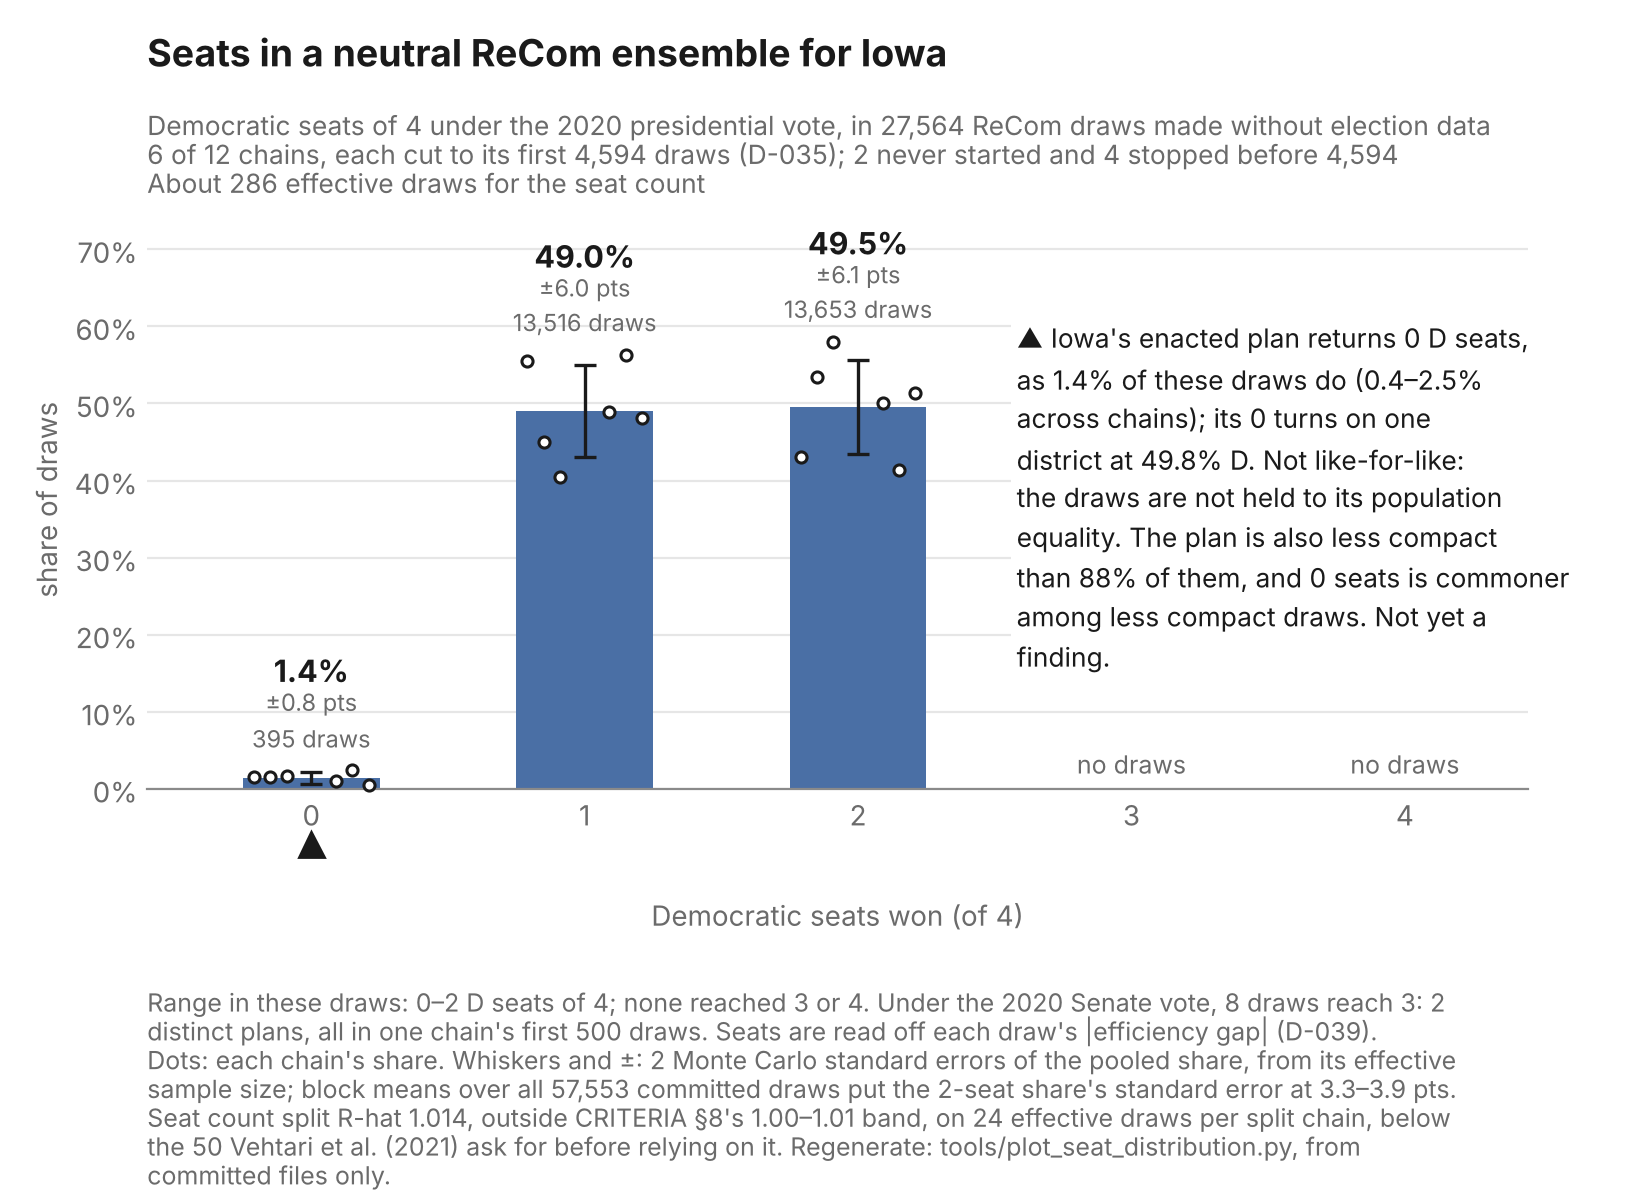
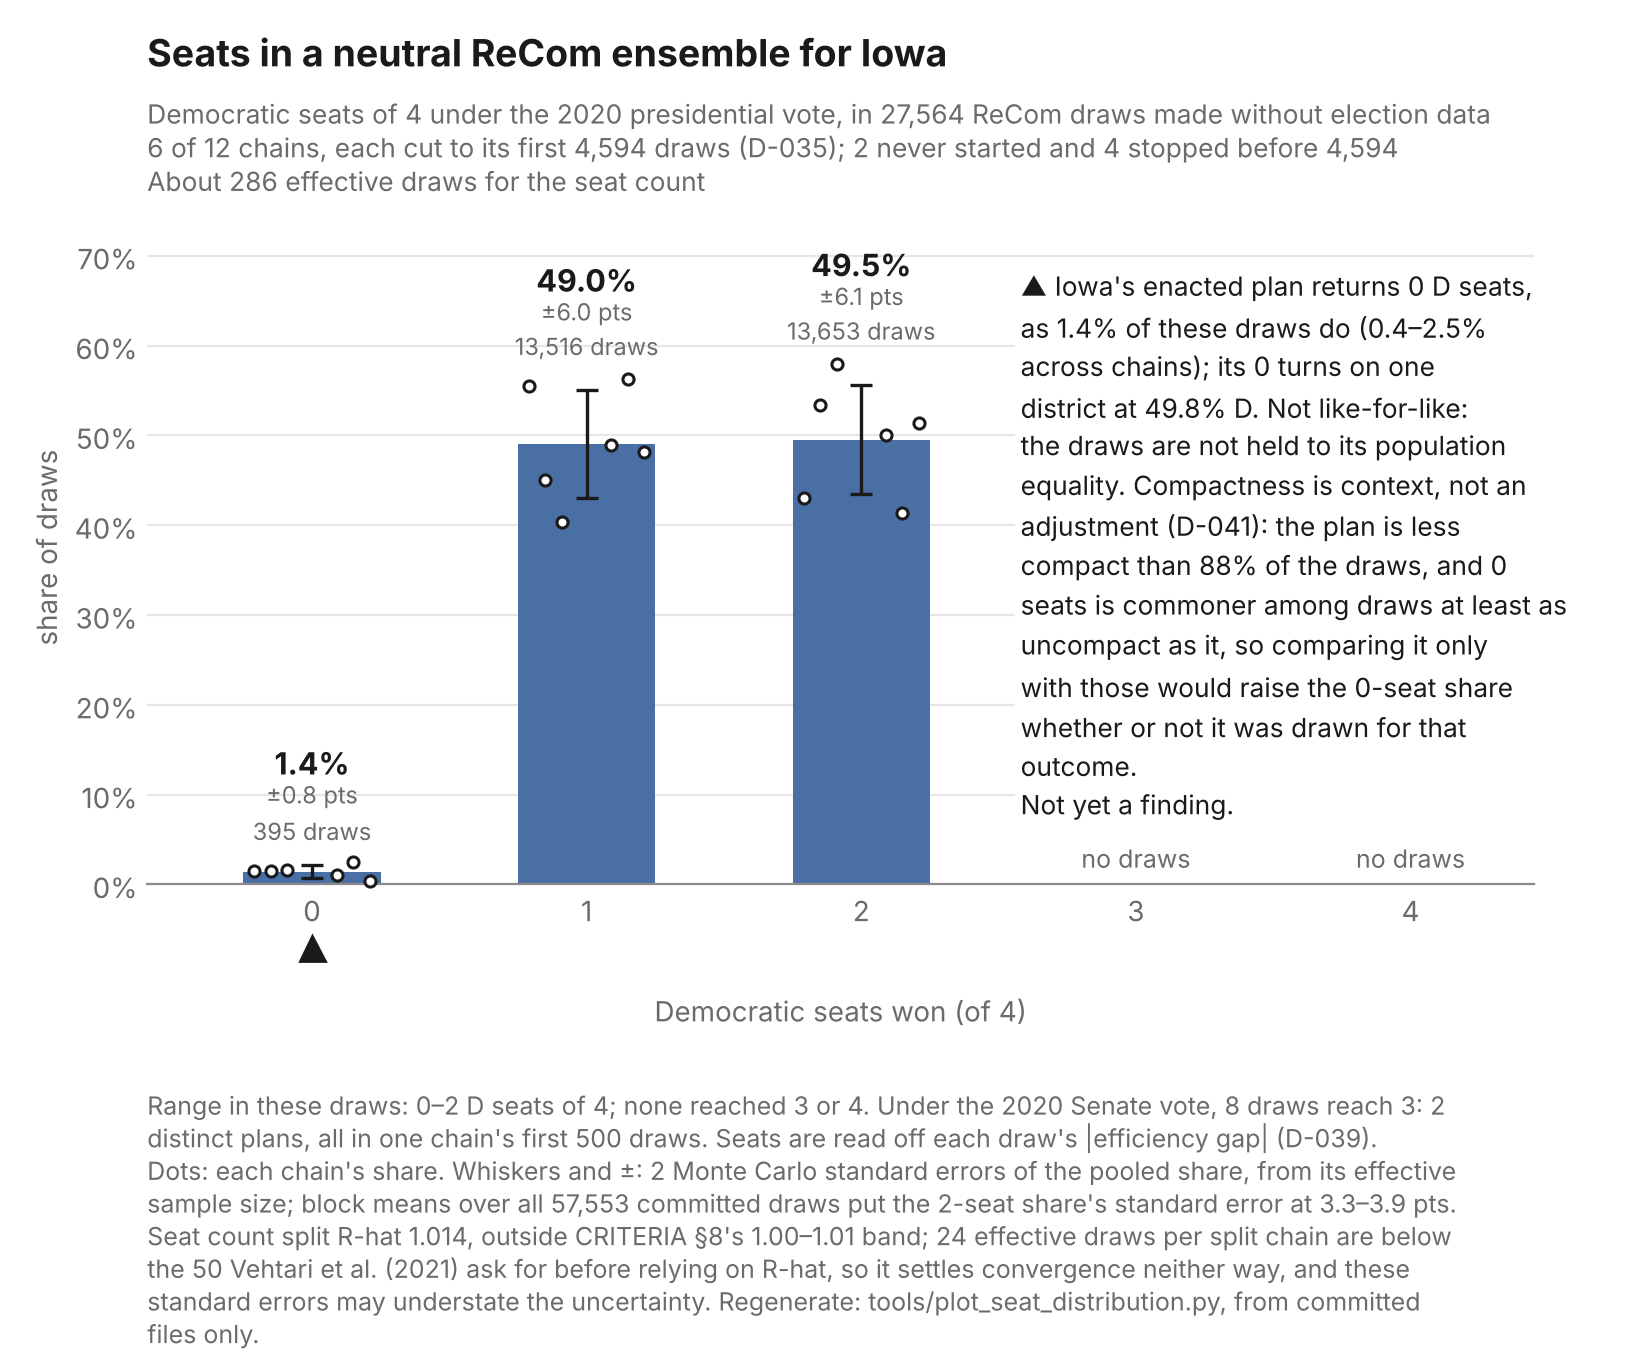
Keep compactness as context in the figure's note
The note gave compactness as a second reason the enacted-plan comparison
is not like-for-like. D-041 gives population as the reason and treats
compactness only as context. The note now says so, and says why it is not
an adjustment. "Not yet a finding." stands on its own line, and the
figure is taller so the longer note clears the "no draws" labels.

The footer's R-hat clause no longer reads as discounting the convergence
warning. It says the effective sample is too small for R-hat to settle
convergence either way, and that the standard errors may understate the
uncertainty.

Tests now hold every string on the canvas as rendered, keep the note off
every other string, pin the whole warm-up window, and cover equal shares
and an empty comparison group. An empty group no longer refuses the
figure.

Claude-Session: https://claude.ai/code/session_016TQ4wY8qVW335hWHLfq9vg

diff --git a/tools/plot_seat_distribution.py b/tools/plot_seat_distribution.py
@@ -72,6 +72,7 @@ from pathlib import Path
 import matplotlib
 matplotlib.use("Agg")
 import matplotlib.pyplot as plt
+from matplotlib.text import Text
 
 ROOT = Path(__file__).resolve().parent.parent
 sys.path.insert(0, str(ROOT / "src"))
@@ -448,6 +449,8 @@ def seat_distribution() -> dict:
     late_above, late_below = by_cut(late)
     def cut_edge_profile(selected):
         edges = [row["cut_edges"] for row in selected]
+        if not edges:
+            return None
         return (statistics.fmean(edges), sum(1 for e in edges if e >= cut) / len(edges),
                 len(edges))
 
@@ -551,7 +554,16 @@ def figure_text(d: dict) -> dict:
     compact = d["compactness"]
     high, _ = compact["at_or_above"]
     low, _ = compact["below"]
-    commoner = "commoner" if high > low else "rarer"
+    # population is the reason the comparison is not like-for-like; compactness
+    # is context only (D-041), and its comparison needs draws on both sides
+    context = ("Compactness is context, not an adjustment (D-041): the plan is less "
+               f"compact than {100 * compact['more_compact_share']:.0f}% of the draws")
+    if high is not None and low is not None:
+        commoner, move = (("commoner", "raise") if high > low else
+                          ("rarer", "lower") if high < low else ("no commoner", "not change"))
+        context += (f", and {enacted} seats is {commoner} among draws at least as uncompact "
+                    f"as it, so comparing it only with those would {move} the "
+                    f"{enacted}-seat share whether or not it was drawn for that outcome")
     blocks = [100 * v for b in p["batch_means_mcse"].values() for v in b.values()]
     two = p["batch_means_mcse"].get(2, {})
 
@@ -593,8 +605,10 @@ def figure_text(d: dict) -> dict:
         "share. Whiskers and ±: 2 Monte Carlo standard errors of the pooled share, from "
         f"its effective sample size{block}. Seat count split R-hat {rhat:.3f}, {where} "
         f"CRITERIA §8's {RHAT_BAND[0]:.2f}–{RHAT_BAND[1]:.2f} band"
-        + (f", on {per_split:.0f} effective draws per split chain, below the "
-           f"{RHAT_MIN_ESS_PER_SPLIT} Vehtari et al. (2021) ask for before relying on it"
+        + (f"; {per_split:.0f} effective draws per split chain are below the "
+           f"{RHAT_MIN_ESS_PER_SPLIT} Vehtari et al. (2021) ask for before relying on "
+           "R-hat, so it settles convergence neither way, and these standard errors may "
+           "understate the uncertainty"
            if per_split < RHAT_MIN_ESS_PER_SPLIT else "")
         + ". Regenerate: tools/plot_seat_distribution.py, from committed files only.",
         FOOTER_WIDTH)
@@ -611,16 +625,14 @@ def figure_text(d: dict) -> dict:
         "labels": labels,
         "enacted_x": enacted,
         # wrapped by width like the footer, so longer values cannot push it
-        # off the canvas
+        # off the canvas, with the last line standing on its own
         "note": "\n".join(textwrap.wrap(
             f"▲ {state}'s enacted plan returns {enacted} D seats, as "
             f"{share_text(p['shares'][enacted])} of these draws do "
             f"({min(chain_range):.1f}–{max(chain_range):.1f}% across chains); its "
             f"{enacted} turns on one district at {100 * d['enacted_closest_share']:.1f}% D. "
-            "Not like-for-like: the draws are not held to its population equality. "
-            f"The plan is also less compact than {100 * compact['more_compact_share']:.0f}% of "
-            f"them, and {enacted} seats is {commoner} among less compact draws. "
-            "Not yet a finding.", NOTE_WIDTH)),
+            f"Not like-for-like: the draws are not held to its population equality. {context}.",
+            NOTE_WIDTH) + ["Not yet a finding."]),
         "footer": footer,
     }
 
@@ -636,7 +648,8 @@ def draw(d: dict, out: Path = OUT) -> dict:
     offsets = chain_offsets(d["n_chains"])
     placed = {"whiskers": {}, "label_y": {}}
 
-    fig, ax = plt.subplots(figsize=(8.2, 6.0), dpi=200)
+    # tall enough that the note, the longest text, clears the labels under it
+    fig, ax = plt.subplots(figsize=(8.2, 6.8), dpi=200)
     fig.patch.set_facecolor(SURFACE); ax.set_facecolor(SURFACE)
 
     bars = ax.bar(xs, pct, width=WIDTH, color=HUE, zorder=2)
@@ -713,6 +726,14 @@ def draw(d: dict, out: Path = OUT) -> dict:
     for i, line in enumerate(footer):
         fig.text(left, 0.008 + 0.024 * (len(footer) - 1 - i), line, color=MUTED,
                  fontsize=9, va="bottom")
+    # every string as rendered, in pixels from the canvas's lower left, so the
+    # tests can hold each one to the canvas whatever the wrap widths are
+    fig.canvas.draw()
+    renderer = fig.canvas.get_renderer()
+    placed["canvas"] = (fig.bbox.width, fig.bbox.height)
+    placed["text_extents"] = [(t.get_text(), tuple(t.get_window_extent(renderer).extents))
+                              for t in fig.findobj(Text)
+                              if t.get_visible() and t.get_text().strip()]
     fig.savefig(out, facecolor=SURFACE)
     plt.close(fig)
     return placed
@@ -828,11 +849,14 @@ def summary_lines(d: dict) -> list[str]:
         f"{_pct(compact['below_after_burn_in'][0])}; by chain (at or above / below) "
         + ", ".join(f"{i}: {_pct(a)}/{_pct(b)}" for i, a, b in compact["per_chain"]),
         f"    {_pct(compact['more_compact_share'])} of draws have fewer cut edges than "
-        f"the enacted plan; the {compact['as_equal_profile'][2]} at <= {ENACTED_SPREAD} "
-        f"persons average {compact['as_equal_profile'][0]:.1f} cut edges, "
-        f"{_pct(compact['as_equal_profile'][1])} at >= {compact['enacted_cut_edges']}, "
-        f"against {compact['rest_profile'][0]:.1f} and "
-        f"{_pct(compact['rest_profile'][1])} for the other {compact['rest_profile'][2]:,}",
+        f"the enacted plan; "
+        + (f"the {compact['as_equal_profile'][2]} at <= {ENACTED_SPREAD} "
+           f"persons average {compact['as_equal_profile'][0]:.1f} cut edges, "
+           f"{_pct(compact['as_equal_profile'][1])} at >= {compact['enacted_cut_edges']}, "
+           f"against {compact['rest_profile'][0]:.1f} and "
+           f"{_pct(compact['rest_profile'][1])} for the other {compact['rest_profile'][2]:,}"
+           if compact["as_equal_profile"] and compact["rest_profile"] else
+           f"no profile: no draws on one side of {ENACTED_SPREAD} persons"),
         f"enacted plan: {d['enacted_dem_seats']} D seats ({CONTEST}); closest "
         f"district {d['enacted_closest_district']} at {d['enacted_closest_share']:.6f}",
     ]

diff --git a/tests/test_seat_distribution.py b/tests/test_seat_distribution.py
@@ -160,8 +160,15 @@ def test_the_enacted_plan_caveats_are_pinned(dist):
 
 
 def test_zero_seat_plans_in_the_warm_up_are_one_chain_s_excursion(dist):
-    early = [w[0] for w in dist["primary"]["warm_up_counts"]]
-    assert dict(zip(dist["chain_index"], early)) == {0: 2, 1: 0, 2: 21, 5: 0, 6: 89, 10: 0}
+    early = dict(zip(dist["chain_index"], dist["primary"]["warm_up_counts"]))
+    assert {i: w[0] for i, w in early.items()} == {0: 2, 1: 0, 2: 21, 5: 0, 6: 89, 10: 0}
+    # the whole window, so its length is pinned too
+    assert early == {
+        0: {0: 2, 1: 314, 2: 184, 3: 0, 4: 0}, 1: {0: 0, 1: 111, 2: 389, 3: 0, 4: 0},
+        2: {0: 21, 1: 261, 2: 218, 3: 0, 4: 0}, 5: {0: 0, 1: 320, 2: 180, 3: 0, 4: 0},
+        6: {0: 89, 1: 290, 2: 121, 3: 0, 4: 0}, 10: {0: 0, 1: 280, 2: 220, 3: 0, 4: 0},
+    }
+    assert all(sum(w.values()) == S.BURN_IN_CHECK for w in early.values())
 
 
 def test_under_the_senate_vote_two_plans_early_in_one_chain_reach_3(dist):
@@ -300,11 +307,15 @@ def test_the_figure_text_is_pinned(dist):
     note = " ".join(text["note"].split())
     for phrase in ("returns 0 D seats", "as 1.4% of these draws do (0.4–2.5% across "
                    "chains)", "on one district at 49.8% D",
-                   "not held to its population equality",
-                   "The plan is also less compact than 88% of them, and 0 seats is commoner "
-                   "among less compact draws",
-                   "Not yet a finding"):
+                   "Not like-for-like: the draws are not held to its population equality. "
+                   "Compactness is context, not an adjustment (D-041): the plan is less "
+                   "compact than 88% of the draws, and 0 seats is commoner among draws at "
+                   "least as uncompact as it, so comparing it only with those would raise "
+                   "the 0-seat share whether or not it was drawn for that outcome."):
         assert phrase in note
+    # the last line stands on its own, and no line outruns the wrap width
+    assert text["note"].splitlines()[-1] == "Not yet a finding."
+    assert all(len(line) <= S.NOTE_WIDTH for line in text["note"].splitlines())
     footer = " ".join(text["footer"])
     for phrase in ("0–2 D seats of 4; none reached 3 or 4",
                    "2020 Senate vote, 8 draws reach 3: 2 distinct plans, all in "
@@ -322,15 +333,33 @@ def test_the_figure_text_follows_the_values(dist):
     d["primary"]["seat_count_split_rhat"] = 1.004
     assert "R-hat 1.004, inside" in " ".join(S.figure_text(d)["footer"])
     # the caution about relying on R-hat is read off the effective sample size
-    assert "on 24 effective draws per split chain, below the 50 Vehtari et al. " \
-           "(2021) ask for" in " ".join(" ".join(S.figure_text(dist)["footer"]).split())
+    assert ("24 effective draws per split chain are below the 50 Vehtari et al. (2021) "
+            "ask for before relying on R-hat, so it settles convergence neither way, and "
+            "these standard errors may understate the uncertainty") in " ".join(
+        " ".join(S.figure_text(dist)["footer"]).split())
     d["primary"]["seat_count_ess"] = 5_000
-    assert "Vehtari" not in " ".join(S.figure_text(d)["footer"])
+    footer = " ".join(S.figure_text(d)["footer"])
+    assert "Vehtari" not in footer and "understate" not in footer
     compact = d["compactness"]
     compact["at_or_above"], compact["below"] = compact["below"], compact["at_or_above"]
     compact["more_compact_share"] = 0.25
     note = " ".join(S.figure_text(d)["note"].split())
-    assert "less compact than 25% of them, and 0 seats is rarer among less compact" in note
+    assert ("less compact than 25% of the draws, and 0 seats is rarer among draws at least "
+            "as uncompact as it, so comparing it only with those would lower the 0-seat "
+            "share") in note
+    # equal shares are neither commoner nor rarer
+    compact["below"] = compact["at_or_above"]
+    note = " ".join(S.figure_text(d)["note"].split())
+    assert "0 seats is no commoner among" in note
+    assert "would not change the 0-seat share" in note
+    # with no draw as uncompact as the plan there is nothing to compare, and the
+    # summary still prints without the population-tight draws' profile
+    compact["at_or_above"], compact["as_equal_profile"] = (None, 0), None
+    text = S.figure_text(d)
+    assert "less compact than 25% of the draws." in " ".join(text["note"].split())
+    assert "uncompact" not in text["note"]
+    assert text["note"].splitlines()[-1] == "Not yet a finding."
+    assert any("no profile" in line for line in S.summary_lines(d))
 
 
 def test_a_share_above_zero_is_never_printed_as_zero():
@@ -348,6 +377,17 @@ def test_the_figure_draws_what_the_text_says(dist, tmp_path):
     assert placed["marker_x"] == dist["enacted_dem_seats"]
     # the note sits right of every bar a draw reached, never on one
     assert placed["note_x"] > 2 + S.WIDTH / 2
+    # every string lies on the canvas as rendered, whatever the wrap widths,
+    # and the note, the longest, covers none of the others
+    width, height = placed["canvas"]
+    for text, (x0, y0, x1, y1) in placed["text_extents"]:
+        assert 0 <= x0 and x1 <= width and 0 <= y0 and y1 <= height, text
+    (note,) = [box for text, box in placed["text_extents"]
+               if text.endswith("Not yet a finding.")]
+    for text, box in placed["text_extents"]:
+        if box != note:
+            assert not (note[0] < box[2] and box[0] < note[2]
+                        and note[1] < box[3] and box[1] < note[3]), text
 
 
 def test_an_outcome_seen_in_one_chain_draws_without_a_whisker(dist, tmp_path):

diff --git a/README.md b/README.md
@@ -13,7 +13,7 @@ map adoption.**
 
 ## First result
 
-![Bar chart of Democratic seats won, of 4, across 27,564 neutral ReCom draws for Iowa under the 2020 presidential vote: 0 seats in 1.4% of draws, 1 seat in 49.0% and 2 seats in 49.5%, each with whiskers of about ±6 points (2 Monte Carlo standard errors by one estimate; others run higher), and none at 3 or 4; the six chains range from 41% to 58% at 2 seats. Iowa's enacted plan is marked at 0 seats; the figure's note gives the reasons that comparison is not like-for-like and not yet a finding.](docs/figures/ia-neutral-seat-distribution.png)
+![Bar chart of Democratic seats won, of 4, across 27,564 neutral ReCom draws for Iowa under the 2020 presidential vote: 0 seats in 1.4% of draws, 1 seat in 49.0% and 2 seats in 49.5%, each with whiskers of about ±6 points (2 Monte Carlo standard errors by one estimate; others run higher), and none at 3 or 4; the six chains range from 41% to 58% at 2 seats. Iowa's enacted plan is marked at 0 seats; the figure's note gives the reason that comparison is not like-for-like, with compactness as context, and calls it not yet a finding.](docs/figures/ia-neutral-seat-distribution.png)
 
 Across 27,564 draws from a ReCom sampler with no access to election data, **a
 neutral ensemble for Iowa gives Democrats 0–2 of 4 seats under the 2020
